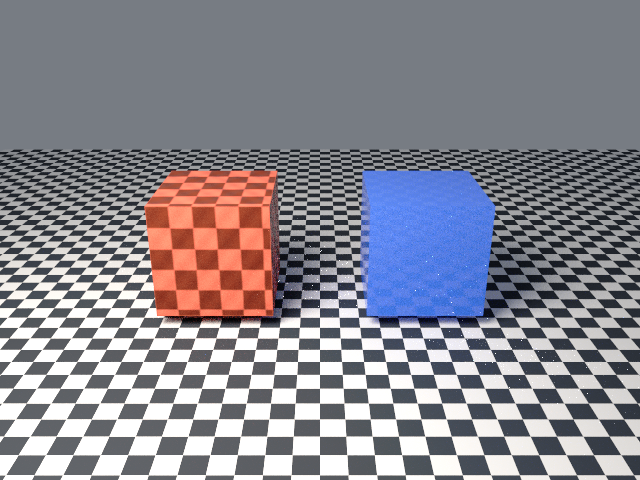
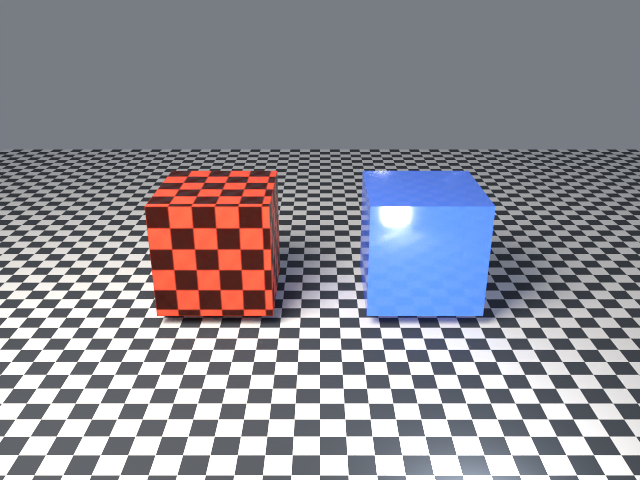
qa: restore glossy highlight in OBJ material gallery

diff --git a/tests/obj_mtl_quality.py b/tests/obj_mtl_quality.py
@@ -38,4 +38,17 @@ bump_mad = sum(red_bump_delta) / len(red_bump_delta)
 assert red_mad > 7.0, f"map_Kd UV checker has too little effect relative to flat Kd: {red_mad:.2f}/255"
 assert blue_mad > 1.0, f"map_d opacity has too little effect relative to opaque blue control: {blue_mad:.2f}/255"
 assert bump_mad > 0.5, f"map_Bump has too little effect relative to no-bump control: {bump_mad:.2f}/255"
+def bright_blue_face(x0, x1):
+    return sum(
+        gallery[y][x * channels] > 190
+        and gallery[y][x * channels + 1] > 190
+        and gallery[y][x * channels + 2] > 205
+        for y in range(210, 270) for x in range(x0, x1)
+    )
+
+highlight = bright_blue_face(380, 430)
+far_face = bright_blue_face(430, 480)
+assert highlight > 250 and far_face < highlight * 0.3, (
+    f"BlueGloss needs a localized specular highlight: lit={highlight}, far={far_face}"
+)
 print(f"OBJ MTL QA: red={len(red)}, blue={len(blue)}, UV texture MAD={red_mad:.2f}, alpha map MAD={blue_mad:.2f}, bump MAD={bump_mad:.2f}/255")

diff --git a/docs/RENDER-QA.md b/docs/RENDER-QA.md
@@ -4,7 +4,7 @@ All feature-gallery outputs are 640×480 CPU Cycles PNGs. Numeric checks run fro
 
 ## OBJ/MTL materials, UVs, and per-face slots
 
-`examples/obj-mtl-gallery.lms` imports two OBJ cubes with explicit corner UVs and normals. `usemtl` assigns a red checker/bump material to the left cube and a glossy blue material with an opacity map to the right. Flat-material and no-bump controls use the same geometry and lighting. `tests/obj_mtl_quality.py` requires more than 2,500 pixels of each color, image margins, a color-texture/control difference above 7/255, an opacity-map/control difference above 1/255, and a bump/no-bump difference above 0.5/255. Measured: 18,126 red and 21,524 blue pixels; texture MAD 69.96/255, opacity MAD 7.46/255, and bump MAD 4.34/255. An MTL path escaping the OBJ directory returns structured `OBJ_MTL_INVALID` before rendering; a huge coordinate returns `OBJ_INVALID`. I viewed the 640×480 gallery image: both cubes are fully framed, their color assignment is distinct, and the red checker follows the UVs.
+`examples/obj-mtl-gallery.lms` imports two OBJ cubes with explicit corner UVs and normals. `usemtl` assigns a red checker/bump material to the left cube and a glossy blue material with an opacity map to the right. Flat-material and no-bump controls use the same geometry and lighting. A small, low frontal light now creates a localized specular highlight on the blue face; 64 samples with CPU denoising remove the previous speckle. `tests/obj_mtl_quality.py` requires more than 2,500 pixels of each color, image margins, a color-texture/control difference above 7/255, an opacity-map/control difference above 1/255, a bump/no-bump difference above 0.5/255, and a localized bright region on the blue face. Measured: 18,179 red and 18,025 blue pixels; texture MAD 110.81/255, opacity MAD 6.64/255, and bump MAD 5.63/255. An MTL path escaping the OBJ directory returns structured `OBJ_MTL_INVALID` before rendering; a huge coordinate returns `OBJ_INVALID`. I viewed the 640×480 gallery image: both cubes are fully framed, their color assignment is distinct, the red checker follows the UVs, and Gemini passed its four-item visual checklist after the lighting change.
 
 Thumbnail: [obj-mtl-gallery.png](img/obj-mtl-gallery.png).
 
